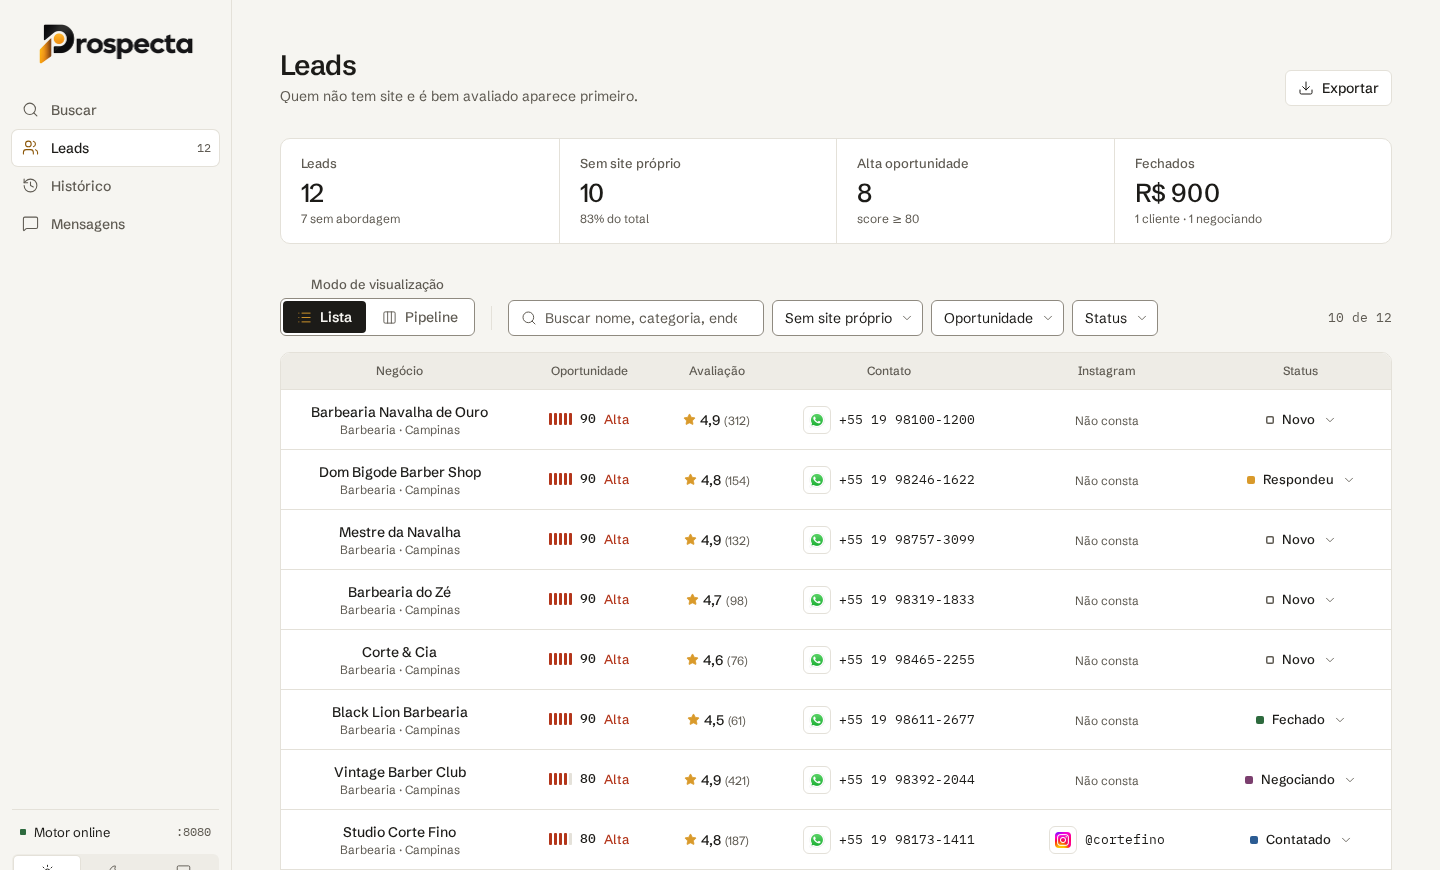
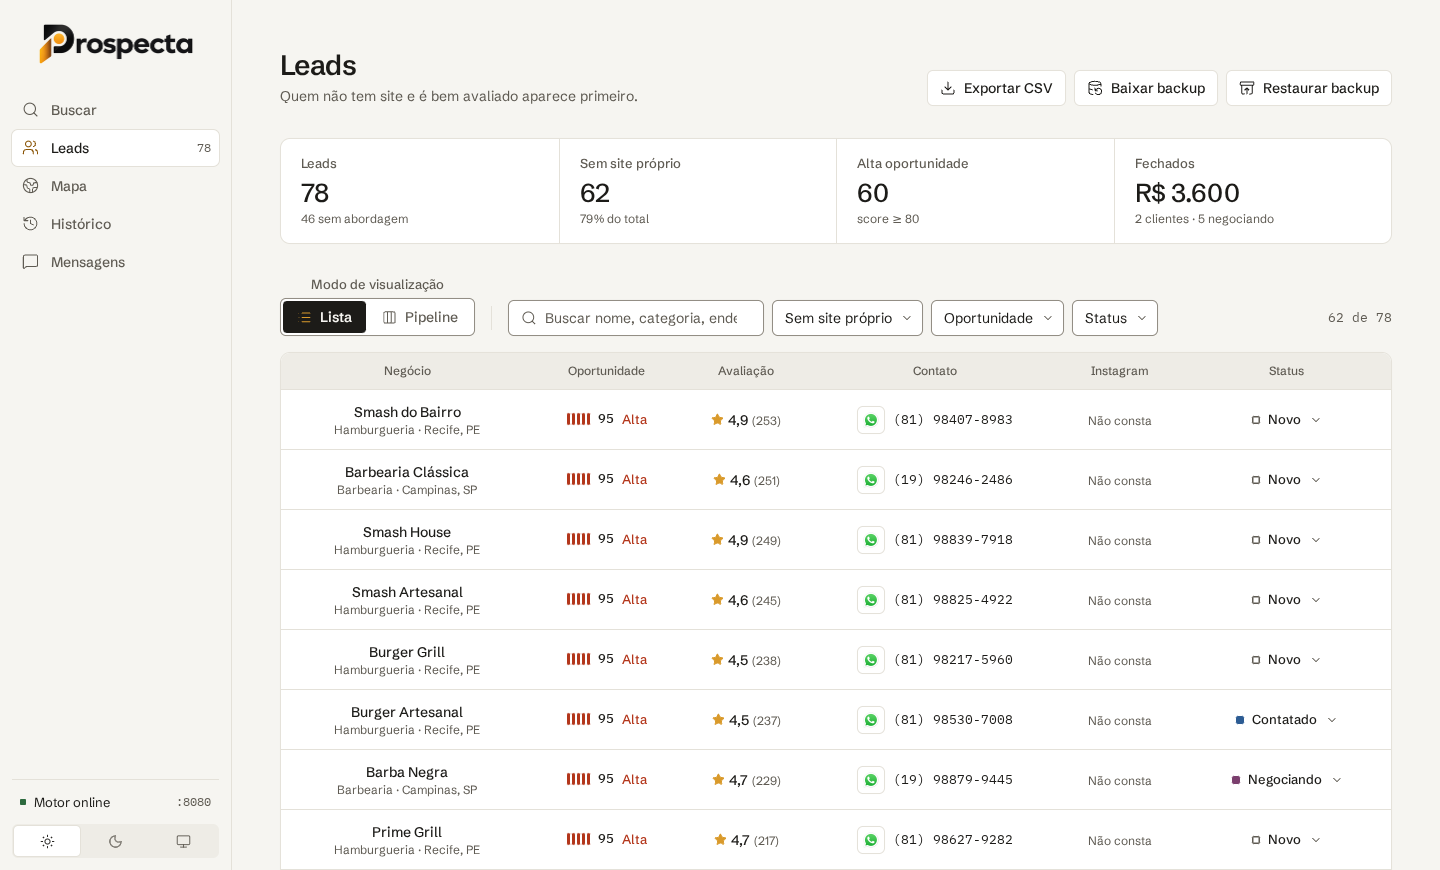
docs(readme): atualiza os prints de todas as telas
Todos os prints refeitos na versão atual, nos temas claro e escuro, com
dados de exemplo (barbearias de Campinas, hamburguerias de Recife, pet
shops de Porto Alegre e academias de Manaus). A página inicial passa a
ser o print do topo, e "Veja como é" segue a ordem do uso: Leads,
Pipeline, Detalhe do lead, Prompt do site, Mapa, Histórico (print novo)
e Mensagens.

diff --git a/README.md b/README.md
@@ -5,11 +5,11 @@ Prospecta traz os negócios da região já ordenados por chance de virar cliente
 e um [prompt para uma IA criar a prévia do site](#prompt-do-site-a-prévia-que-ajuda-a-fechar) de cada negócio.
 
 <picture>
-  <source media="(prefers-color-scheme: dark)" srcset="docs/images/leads-dark.png">
-  <img src="docs/images/leads-light.png" alt="Tela de Leads do Prospecta: barbearias de Campinas ordenadas pela pontuação de oportunidade, com avaliação, botão de WhatsApp e status no funil">
+  <source media="(prefers-color-scheme: dark)" srcset="docs/images/busca-dark.png">
+  <img src="docs/images/busca-light.png" alt="Página inicial do Prospecta: campo de nicho e cidade com o botão Buscar leads, sugestões de nicho, opções avançadas de quantidade de negócios e coleta de e-mails, buscas recentes e o resumo dos seus leads">
 </picture>
 
-<sub>Tela de Leads com dados de exemplo. O print acompanha o tema do GitHub (claro ou escuro).</sub>
+<sub>Página inicial com dados de exemplo. O print acompanha o tema do GitHub (claro ou escuro).</sub>
 
 Foi feito para quem vende **landing pages e sites** para negócios locais: quem **não tem site** (ou só tem Instagram/Linktree),
 é bem avaliado e tem celular para WhatsApp aparece primeiro. Serve também para qualquer serviço vendido a pequenos negócios
@@ -33,23 +33,17 @@ Foi feito para quem vende **landing pages e sites** para negócios locais: quem 
 
 ## Veja como é
 
-Prints com dados de exemplo (barbearias). Eles acompanham o tema do GitHub, claro ou escuro.
+Prints com dados de exemplo (barbearias de Campinas e outros nichos). Eles acompanham o tema do GitHub, claro ou escuro.
 
-### Mapa: onde estão os seus leads
+### Leads: quem abordar primeiro
 
-De longe é um globo com as regiões em que você buscou. Cada círculo dourado agrupa os leads de uma região e mostra quantos são.
-
-<picture>
-  <source media="(prefers-color-scheme: dark)" srcset="docs/images/mapa-dark.png">
-  <img src="docs/images/mapa-light.png" alt="Tela Mapa do Prospecta: globo com a América do Sul e círculos dourados agrupando os leads encontrados em várias cidades do Brasil, com a legenda das etapas do funil ao lado">
-</picture>
-
-Ao aproximar, vira mapa de ruas, com cada negócio colorido pela etapa do funil. Clique num ponto para ver o lead, mudar a etapa
-ou abrir os detalhes.
+Os negócios encontrados aparecem ordenados pela pontuação de oportunidade: quem não tem site, é bem avaliado e tem celular vem
+primeiro. Os números do topo resumem quantos ainda não foram abordados e quanto já foi fechado. Daqui também sai o CSV e o
+backup completo.
 
 <picture>
-  <source media="(prefers-color-scheme: dark)" srcset="docs/images/mapa-rua-dark.png">
-  <img src="docs/images/mapa-rua-light.png" alt="Tela Mapa do Prospecta aproximada em Campinas: pontos coloridos pela etapa do funil sobre o mapa de ruas e o card da Barbearia do Zé selecionada, com etapa, nota, endereço, telefone e o botão Ver detalhes">
+  <source media="(prefers-color-scheme: dark)" srcset="docs/images/leads-dark.png">
+  <img src="docs/images/leads-light.png" alt="Tela de Leads do Prospecta: negócios ordenados pela pontuação de oportunidade, com avaliação, botão de WhatsApp, Instagram e status no funil, os números do topo e os botões Exportar CSV, Baixar backup e Restaurar backup">
 </picture>
 
 ### Pipeline: o funil de vendas
@@ -59,7 +53,7 @@ card avisa quando o próximo contato é hoje ou está atrasado.
 
 <picture>
   <source media="(prefers-color-scheme: dark)" srcset="docs/images/pipeline-dark.png">
-  <img src="docs/images/pipeline-light.png" alt="Visão Pipeline do Prospecta: colunas Novo, Contatado, Respondeu, Negociando, Fechado e Perdido com cards de barbearias, pontuação, nota, valor da proposta e aviso de contato atrasado ou para hoje">
+  <img src="docs/images/pipeline-light.png" alt="Visão Pipeline do Prospecta: colunas Novo, Contatado, Respondeu, Negociando, Fechado e Perdido com cards de negócios, pontuação, nota, valor da proposta e aviso de contato atrasado ou para hoje">
 </picture>
 
 ### Detalhe do lead: a abordagem pronta
@@ -84,14 +78,42 @@ de design para o nicho. Você copia, cola numa IA como Claude, ChatGPT, Lovable 
   <img src="docs/images/prompt-do-site-light.png" alt="Tela Prompt do site do Prospecta para a Barbearia do Zé: nota explicando como fazer a prévia, ajustes de formato, direção de design e observações, e o prompt com os dados do negócio, com os botões Baixar .md e Copiar prompt">
 </picture>
 
+### Mapa: onde estão os seus leads
+
+De longe aparecem as regiões em que você buscou: cada círculo dourado agrupa os leads de uma região e mostra quantos são. Ao
+lado, os bairros com mais negócios sem site mostram onde vale buscar de novo.
+
+<picture>
+  <source media="(prefers-color-scheme: dark)" srcset="docs/images/mapa-dark.png">
+  <img src="docs/images/mapa-light.png" alt="Tela Mapa do Prospecta: mapa do Brasil com círculos dourados agrupando os leads de Manaus, Recife, Campinas e Porto Alegre, a legenda das etapas do funil, os filtros e o painel Bairros sem site">
+</picture>
+
+Ao aproximar, vira mapa de ruas, com cada negócio colorido pela etapa do funil. Clique num ponto para ver o lead, mudar a etapa
+ou abrir os detalhes.
+
+<picture>
+  <source media="(prefers-color-scheme: dark)" srcset="docs/images/mapa-rua-dark.png">
+  <img src="docs/images/mapa-rua-light.png" alt="Tela Mapa do Prospecta aproximada em Campinas: pontos coloridos pela etapa do funil sobre o mapa de ruas e o cartão da Barbearia do Zé aberto sobre o ponto, com etapa, nota, endereço, telefone e o botão Ver detalhes">
+</picture>
+
+### Histórico: todas as buscas
+
+Cada busca fica guardada, com quantos leads trouxe. Ao repetir uma busca, o Prospecta mostra o que mudou na região: quantos
+negócios são novos e quantos ganharam site.
+
+<picture>
+  <source media="(prefers-color-scheme: dark)" srcset="docs/images/historico-dark.png">
+  <img src="docs/images/historico-light.png" alt="Tela Histórico do Prospecta: lista de buscas de barbearias, academias, pet shops e hamburguerias, com data, quantidade de leads e status, e a busca repetida de Campinas mostrando 6 novos na região e 1 que ganhou site">
+</picture>
+
 ### Mensagens: seus modelos de abordagem
 
-Escreva até 10 modelos com as variáveis `{nome}`, `{categoria}`, `{cidade}`, `{nota}`, `{diagnostico}`, `{elogio}` e `{dor}`, e veja na prévia como a
-mensagem chega.
+Escreva até 10 modelos com as variáveis `{nome}`, `{categoria}`, `{cidade}`, `{nota}`, `{diagnostico}`, `{elogio}` e `{dor}`, e
+veja na prévia como a mensagem chega.
 
 <picture>
   <source media="(prefers-color-scheme: dark)" srcset="docs/images/mensagens-dark.png">
-  <img src="docs/images/mensagens-light.png" alt="Tela Mensagens do Prospecta: lista de modelos, editor do modelo Barbearia com as variáveis {nome} e {nota} e a prévia da mensagem já preenchida com o nome e a nota de uma barbearia">
+  <img src="docs/images/mensagens-light.png" alt="Tela Mensagens do Prospecta: lista com três modelos, editor do modelo Barbearia com os botões das variáveis e a prévia da mensagem no balão do WhatsApp, já preenchida com o nome e a nota de uma barbearia">
 </picture>
 
 ## O que ele faz

diff --git a/CHANGELOG.md b/CHANGELOG.md
@@ -7,6 +7,11 @@ O formato segue o [Keep a Changelog](https://keepachangelog.com/pt-BR/1.1.0/) e 
 
 ## [Não lançado]
 
+### Alterado
+
+- README com todos os prints refeitos na versão atual, nos temas claro e escuro: a página inicial no topo, depois Leads,
+  Pipeline, Detalhe do lead, Prompt do site, Mapa, Histórico (novo) e Mensagens.
+
 ## [0.4.1] - 2026-10-30
 
 ### Alterado
